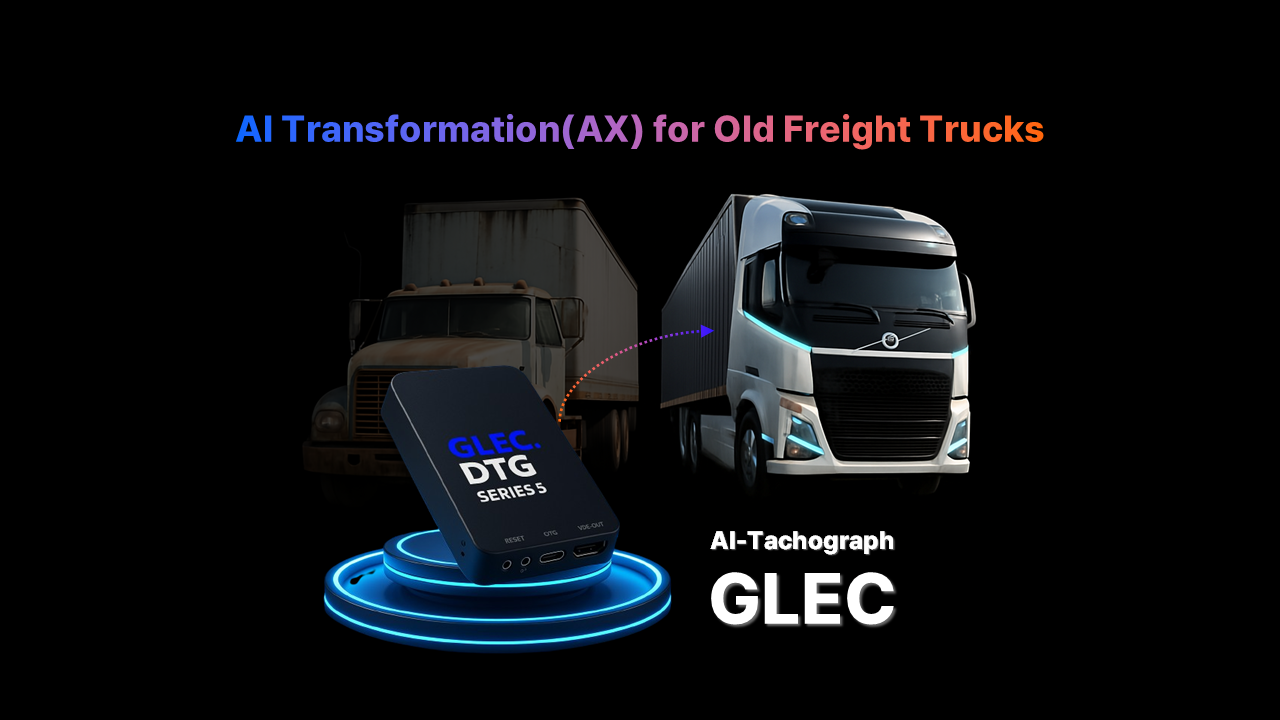
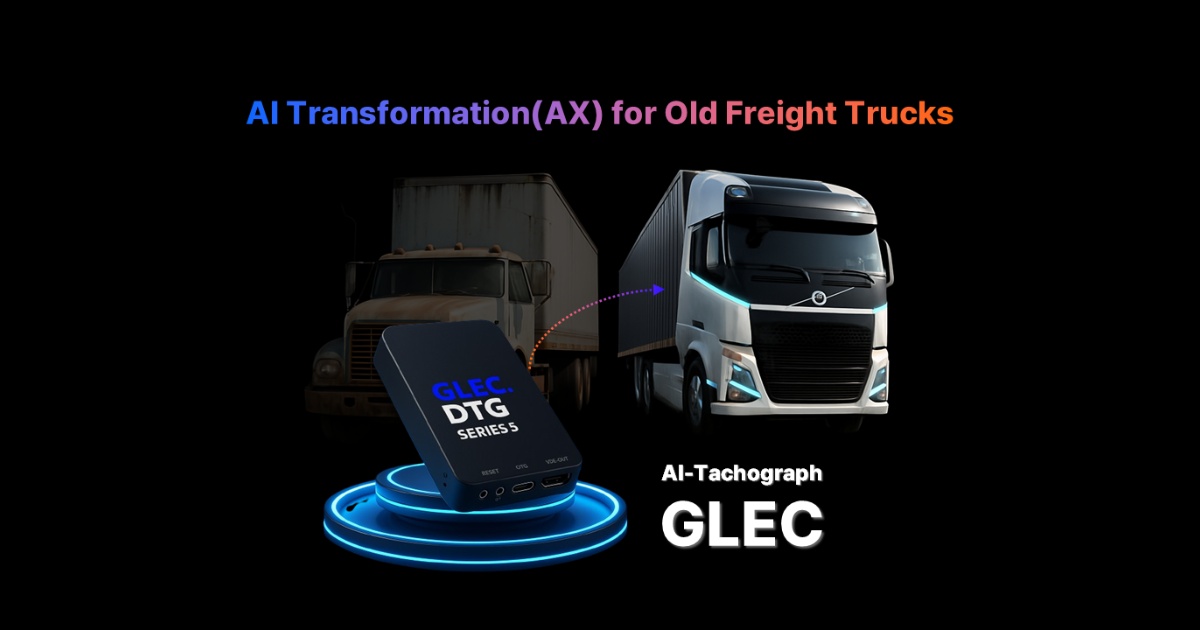
Update Open Graph thumbnail with correct slide image (1200x630)
- Use properly resized slide image (1200x630 pixels)
- Update all meta tags with correct dimensions
- Fix social media thumbnail display issue
- Cache-busting version v=3 for immediate updates

🤖 Generated with Claude Code

diff --git a/index.html b/index.html
@@ -27,11 +27,11 @@
     <meta property="og:description" content="World's leading AI transformation platform for commercial trucks. Advanced safety, efficiency, and environmental benefits. Experience the future at CES 2026.">
     <meta property="og:url" content="https://glec-ai-dtg.vercel.app/">
     <meta property="og:site_name" content="GLEC AI DTG">
-    <meta property="og:image" content="https://glec-ai-dtg.vercel.app/assets/images/og-thumbnail.png?v=2">
-    <meta property="og:image:secure_url" content="https://glec-ai-dtg.vercel.app/assets/images/og-thumbnail.png?v=2">
+    <meta property="og:image" content="https://glec-ai-dtg.vercel.app/assets/images/og-thumbnail.png?v=3">
+    <meta property="og:image:secure_url" content="https://glec-ai-dtg.vercel.app/assets/images/og-thumbnail.png?v=3">
     <meta property="og:image:type" content="image/png">
-    <meta property="og:image:width" content="1280">
-    <meta property="og:image:height" content="720">
+    <meta property="og:image:width" content="1200">
+    <meta property="og:image:height" content="630">
     <meta property="og:image:alt" content="GLEC AI-DTG Premium Tachograph Platform - AI Transformation for Old Freight Trucks">
     <meta property="og:locale" content="en_US">
     <meta property="og:locale:alternate" content="zh_CN">
@@ -41,7 +41,7 @@
     <meta name="twitter:card" content="summary_large_image">
     <meta name="twitter:title" content="GLEC AI DTG - AI Transformation Platform for Trucks">
     <meta name="twitter:description" content="Transform aging trucks into AI-powered vehicles. Advanced safety, carbon reduction, real-time analytics. Join us at CES 2026.">
-    <meta name="twitter:image" content="https://glec-ai-dtg.vercel.app/assets/images/og-thumbnail.png?v=2">
+    <meta name="twitter:image" content="https://glec-ai-dtg.vercel.app/assets/images/og-thumbnail.png?v=3">
     <meta name="twitter:image:alt" content="GLEC AI-DTG Premium Tachograph Platform - AI Transformation for Old Freight Trucks">
     <meta name="twitter:site" content="@GLEC_AI">
     <meta name="twitter:creator" content="@GLEC_AI">

diff --git a/index-ko.html b/index-ko.html
@@ -27,11 +27,11 @@
     <meta property="og:description" content="상용 트럭을 위한 세계 최고의 AI 변환 플랫폼. 첨단 안전성, 효율성, 환경적 이점. CES 2026에서 미래를 경험하세요.">
     <meta property="og:url" content="https://glec-ai-dtg.vercel.app/index-ko.html">
     <meta property="og:site_name" content="GLEC AI DTG">
-    <meta property="og:image" content="https://glec-ai-dtg.vercel.app/assets/images/og-thumbnail.png?v=2">
-    <meta property="og:image:secure_url" content="https://glec-ai-dtg.vercel.app/assets/images/og-thumbnail.png?v=2">
+    <meta property="og:image" content="https://glec-ai-dtg.vercel.app/assets/images/og-thumbnail.png?v=3">
+    <meta property="og:image:secure_url" content="https://glec-ai-dtg.vercel.app/assets/images/og-thumbnail.png?v=3">
     <meta property="og:image:type" content="image/png">
-    <meta property="og:image:width" content="1280">
-    <meta property="og:image:height" content="720">
+    <meta property="og:image:width" content="1200">
+    <meta property="og:image:height" content="630">
     <meta property="og:image:alt" content="GLEC AI-DTG 프리미엄 타코그래프 플랫폼 - 노후 화물차 AI 변환">
     <meta property="og:locale" content="ko_KR">
     <meta property="og:locale:alternate" content="en_US">
@@ -41,7 +41,7 @@
     <meta name="twitter:card" content="summary_large_image">
     <meta name="twitter:title" content="GLEC AI DTG - 화물차 AI 변환 플랫폼">
     <meta name="twitter:description" content="노후 화물차를 AI 차량으로 변환. 첨단 안전, 탄소 감축, 실시간 분석. CES 2026에서 만나보세요.">
-    <meta name="twitter:image" content="https://glec-ai-dtg.vercel.app/assets/images/og-thumbnail.png?v=2">
+    <meta name="twitter:image" content="https://glec-ai-dtg.vercel.app/assets/images/og-thumbnail.png?v=3">
     <meta name="twitter:image:alt" content="GLEC AI-DTG 프리미엄 타코그래프 플랫폼 - 노후 화물차 AI 변환">
     <meta name="twitter:site" content="@GLEC_AI">
     <meta name="twitter:creator" content="@GLEC_AI">

diff --git a/index-zh.html b/index-zh.html
@@ -27,11 +27,11 @@
     <meta property="og:description" content="商用卡车的全球领先AI转型平台。先进安全性、效率、环保效益。在CES 2026体验未来。">
     <meta property="og:url" content="https://glec-ai-dtg.vercel.app/index-zh.html">
     <meta property="og:site_name" content="GLEC AI DTG">
-    <meta property="og:image" content="https://glec-ai-dtg.vercel.app/assets/images/og-thumbnail.png?v=2">
-    <meta property="og:image:secure_url" content="https://glec-ai-dtg.vercel.app/assets/images/og-thumbnail.png?v=2">
+    <meta property="og:image" content="https://glec-ai-dtg.vercel.app/assets/images/og-thumbnail.png?v=3">
+    <meta property="og:image:secure_url" content="https://glec-ai-dtg.vercel.app/assets/images/og-thumbnail.png?v=3">
     <meta property="og:image:type" content="image/png">
-    <meta property="og:image:width" content="1280">
-    <meta property="og:image:height" content="720">
+    <meta property="og:image:width" content="1200">
+    <meta property="og:image:height" content="630">
     <meta property="og:image:alt" content="GLEC AI-DTG 高级行驶记录仪平台 - 老旧货车AI改造">
     <meta property="og:locale" content="zh_CN">
     <meta property="og:locale:alternate" content="en_US">
@@ -41,7 +41,7 @@
     <meta name="twitter:card" content="summary_large_image">
     <meta name="twitter:title" content="GLEC AI DTG - 货车AI转型平台">
     <meta name="twitter:description" content="将老旧货车转变为AI车辆。先进安全、碳减排、实时分析。CES 2026见。">
-    <meta name="twitter:image" content="https://glec-ai-dtg.vercel.app/assets/images/og-thumbnail.png?v=2">
+    <meta name="twitter:image" content="https://glec-ai-dtg.vercel.app/assets/images/og-thumbnail.png?v=3">
     <meta name="twitter:image:alt" content="GLEC AI-DTG 高级行驶记录仪平台 - 老旧货车AI改造">
     <meta name="twitter:site" content="@GLEC_AI">
     <meta name="twitter:creator" content="@GLEC_AI">
